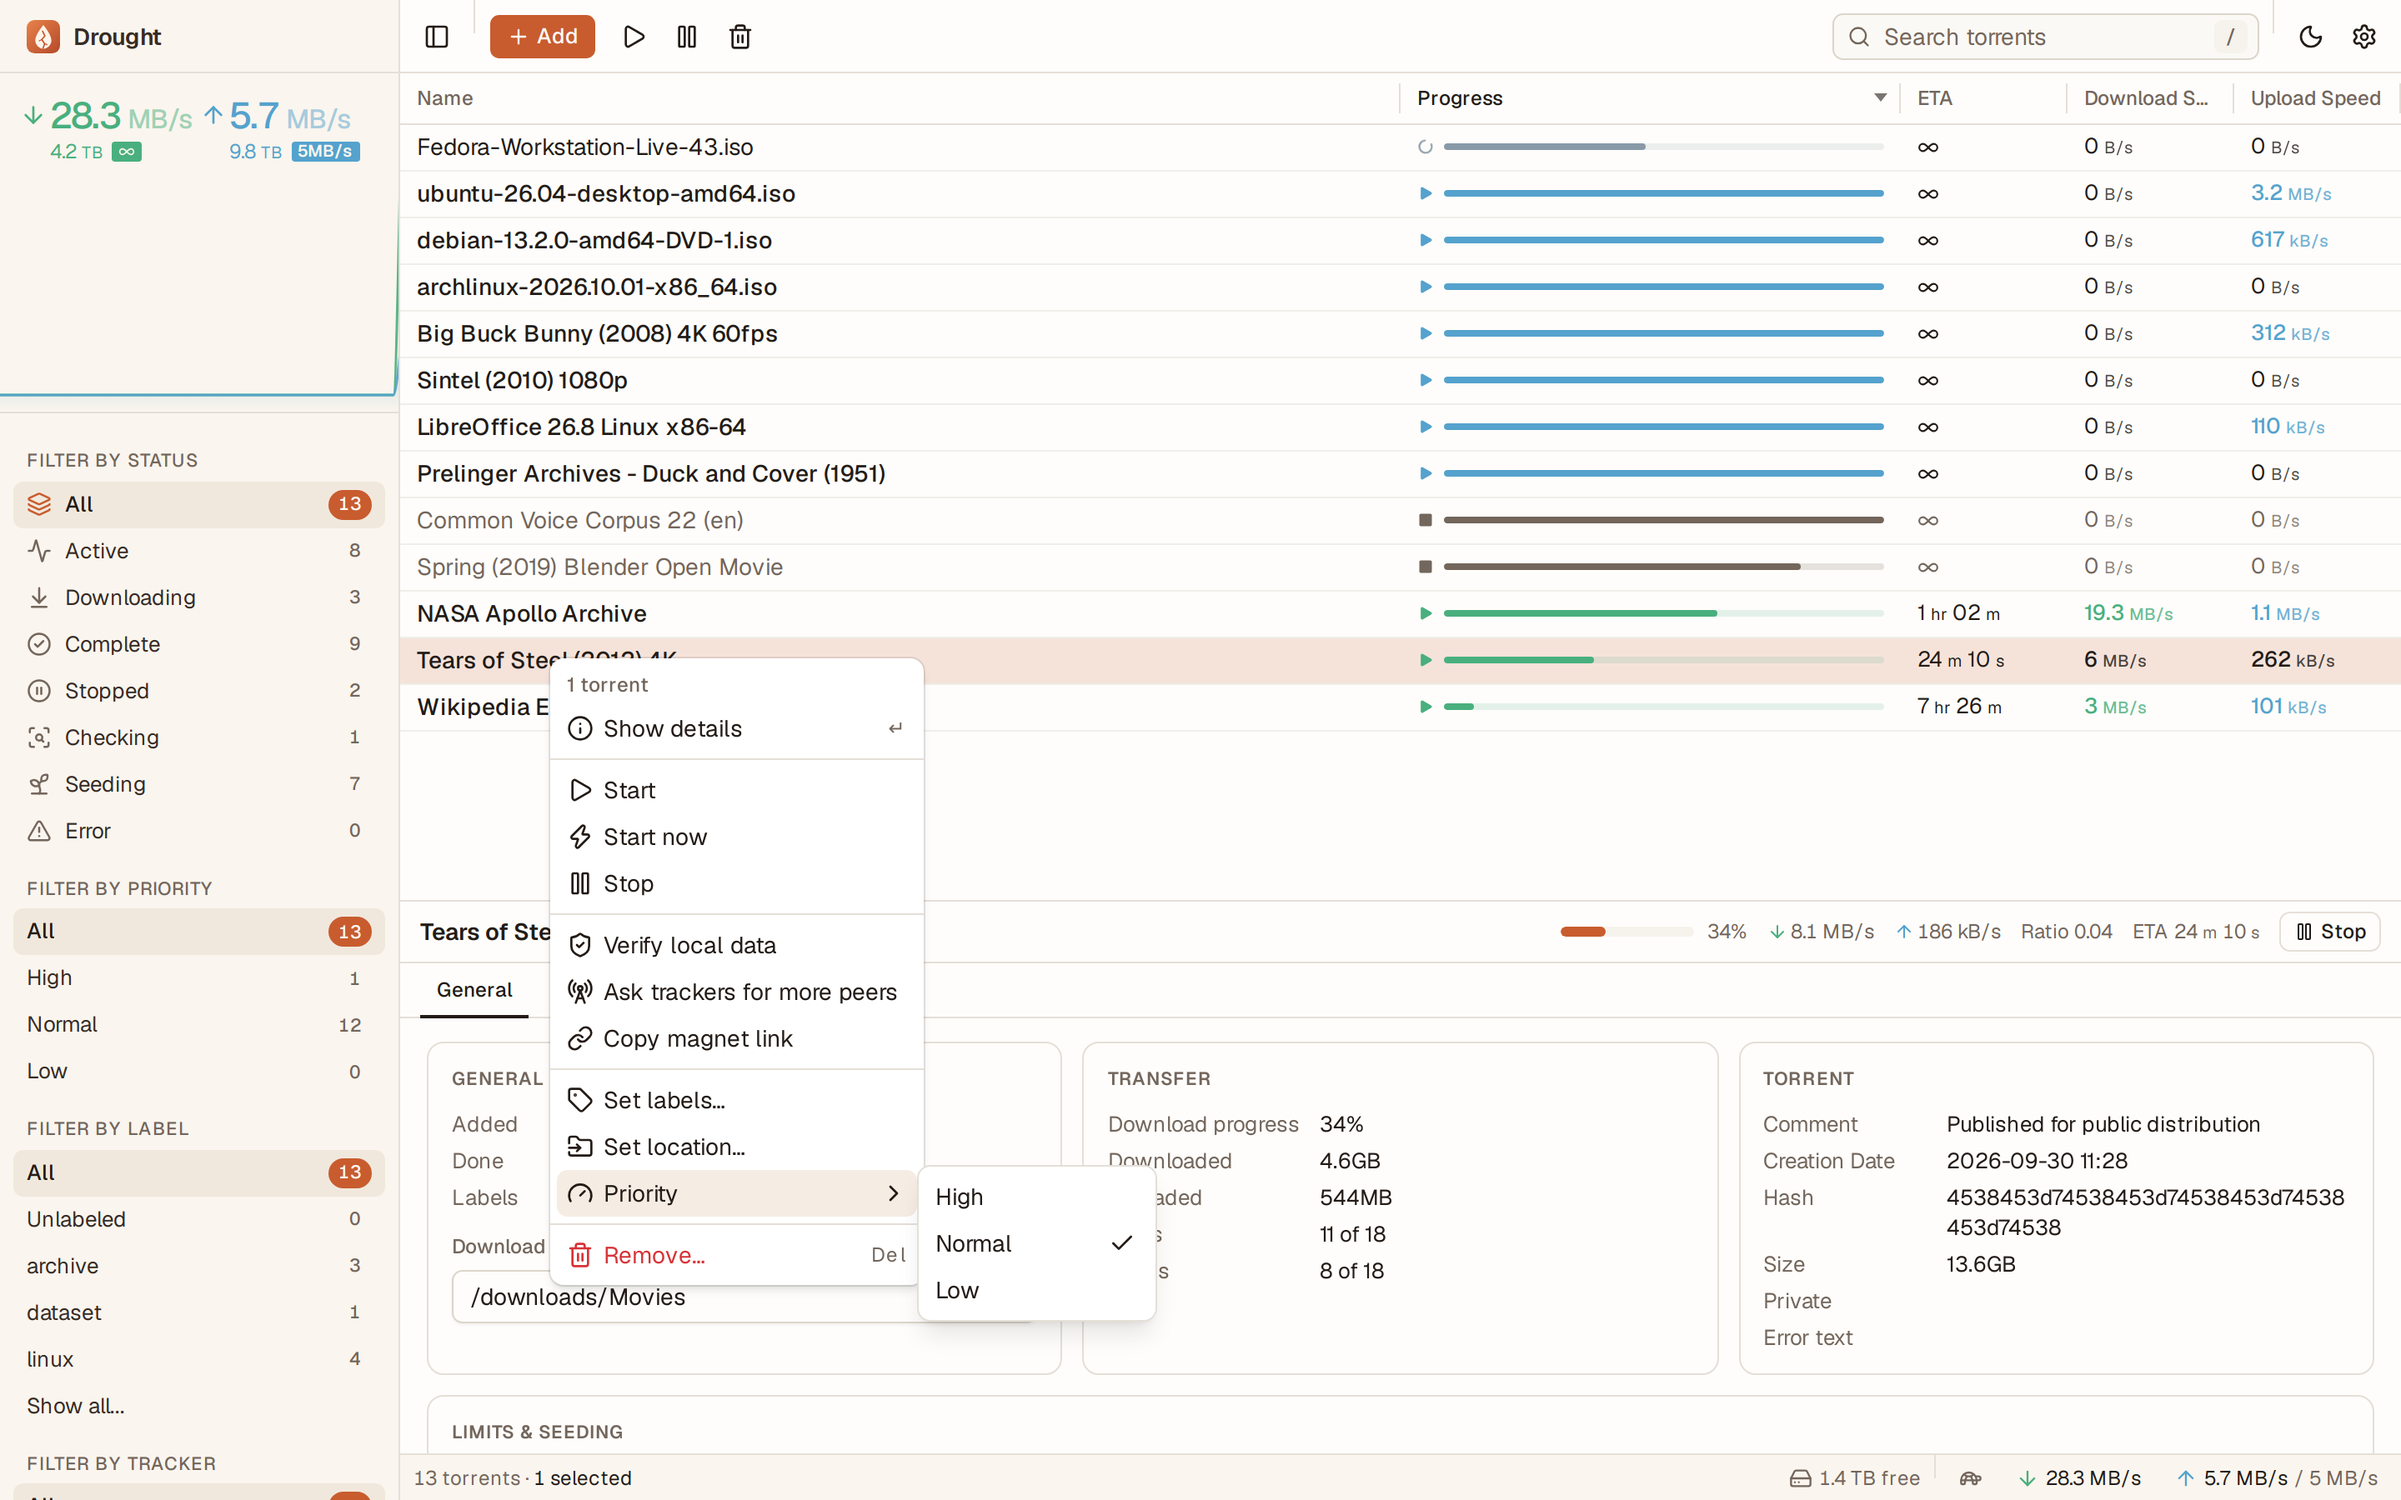
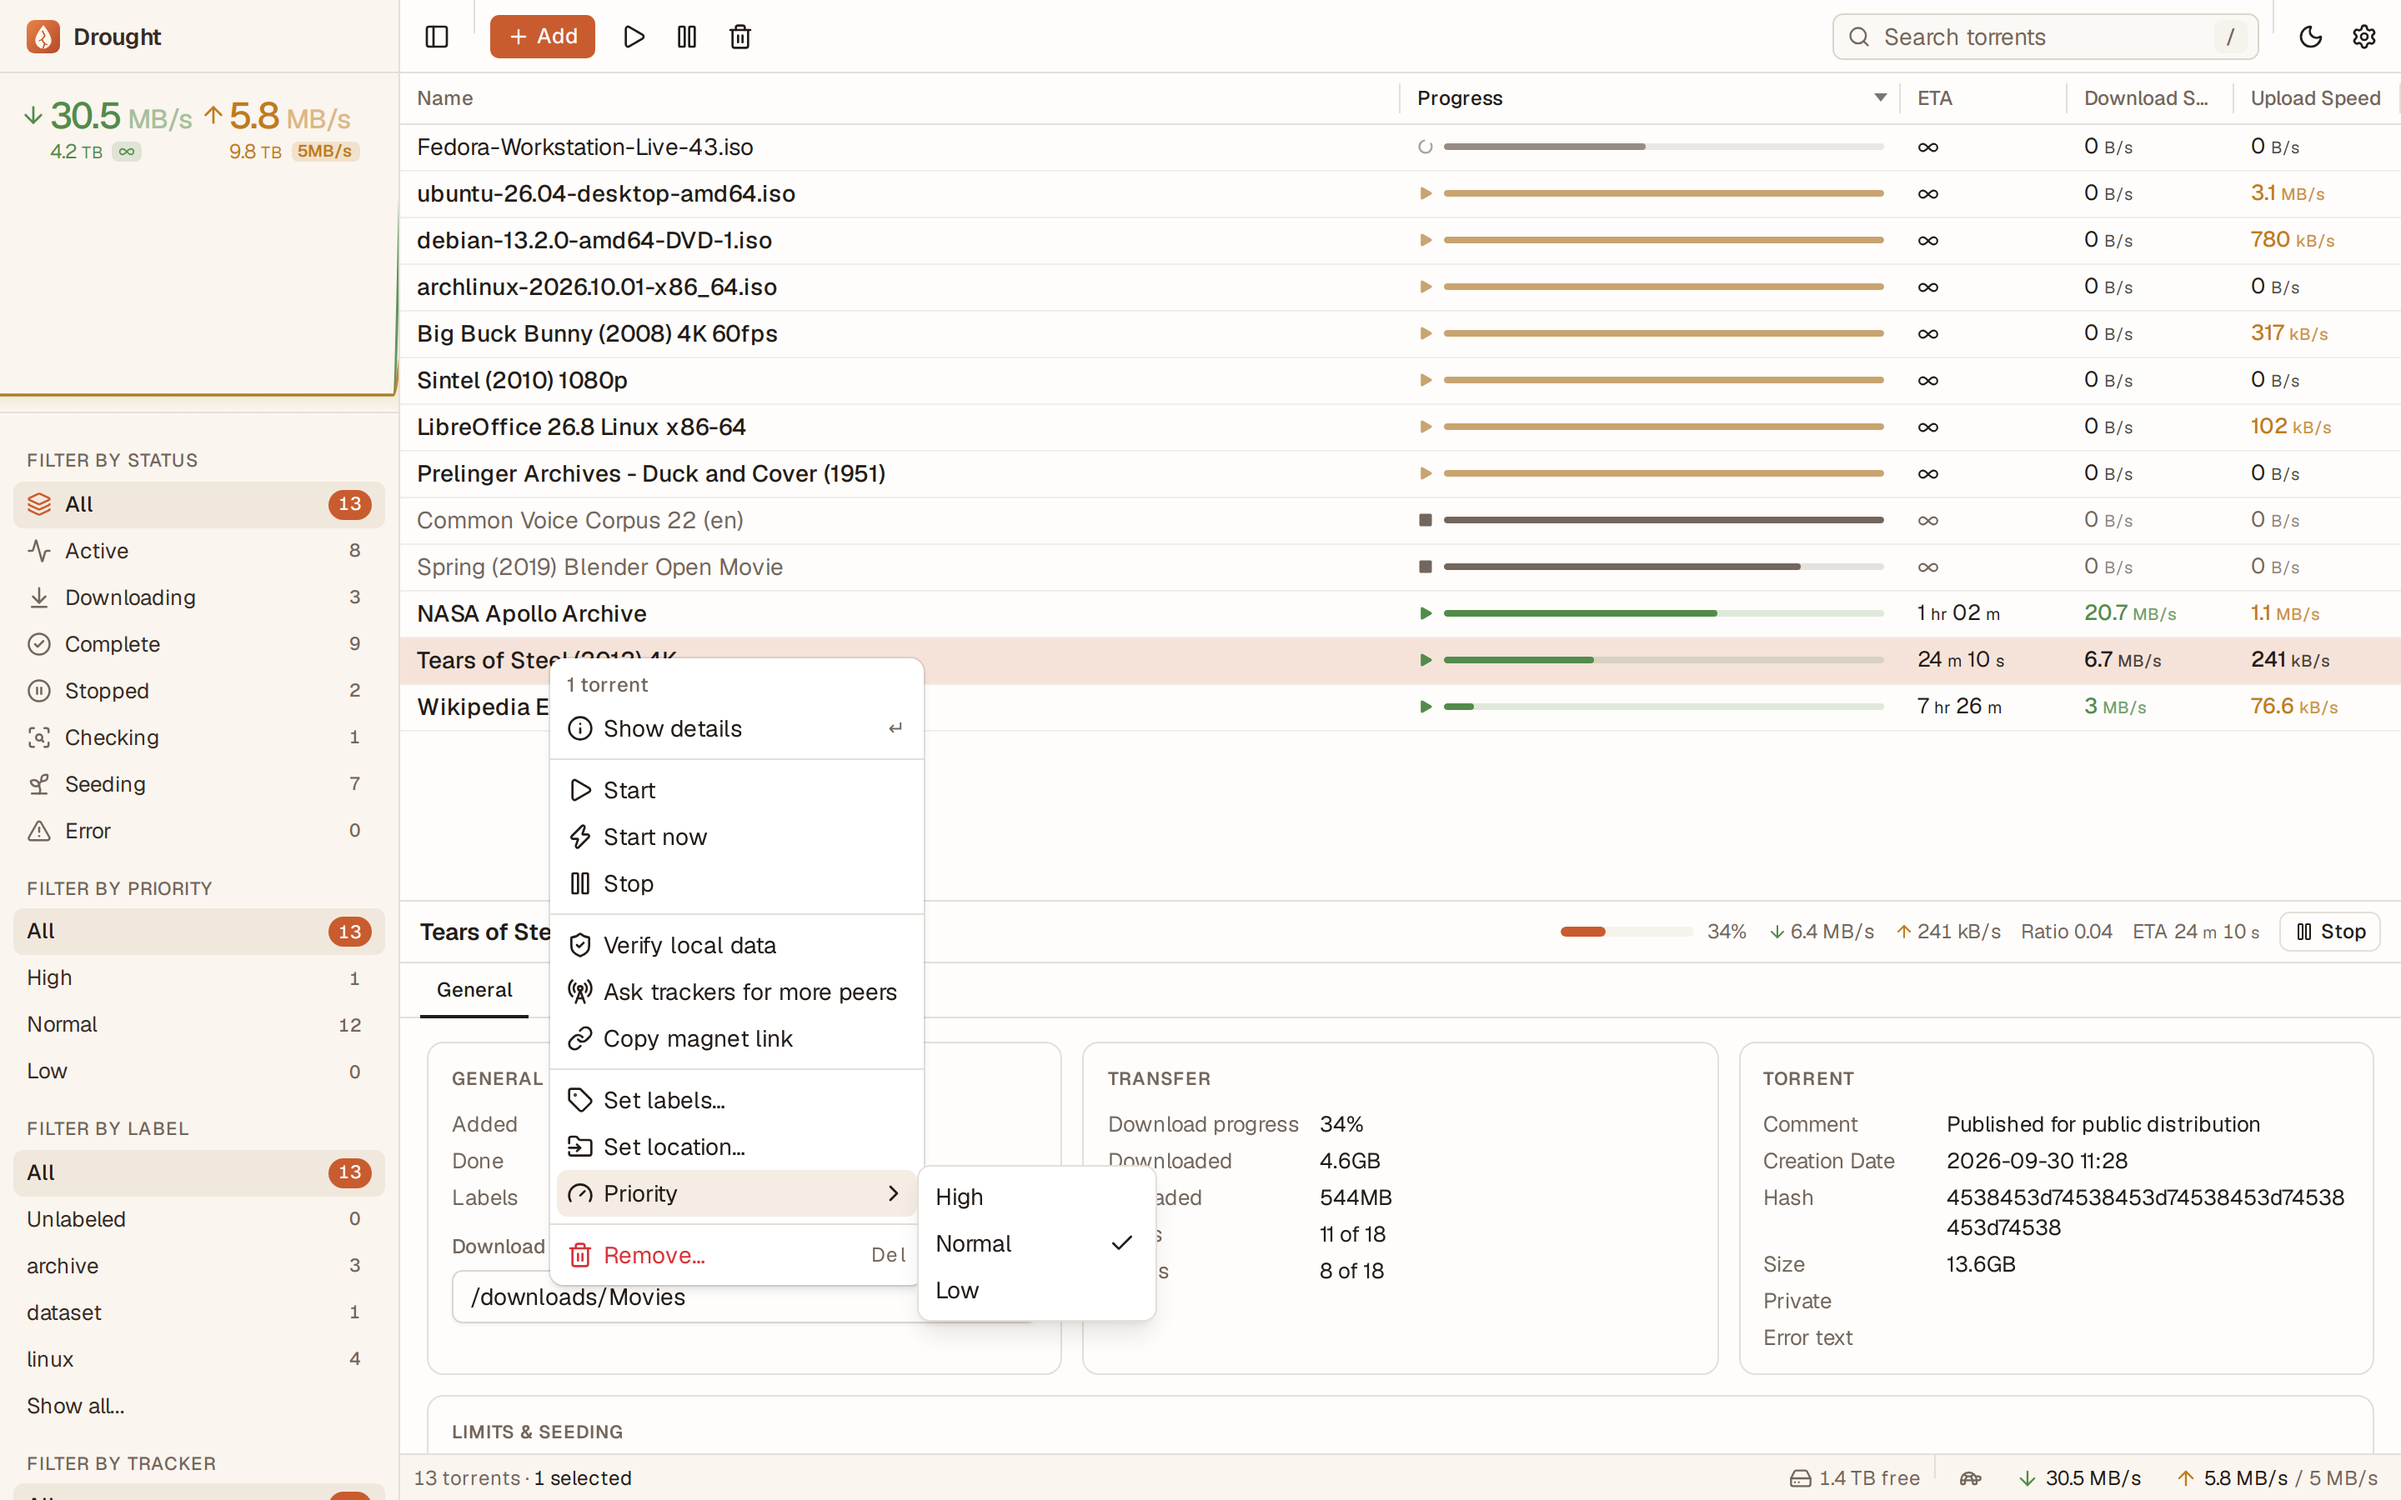
Match transfer colors to the theme and stop the graph shifting on hover
- Download is now sage, upload ochre and finished torrents a soft sand,
  replacing the green/blue pair that clashed with the warm palette. Text
  uses darker shades in light mode for contrast. "Switch speed colors"
  still swaps download and upload.
- Speed-limit chips in the sidebar use tinted backgrounds instead of solid.
- The graph's hover timestamp is overlaid instead of being a layout row
  that grew from empty, which pushed the graph and filters down on hover.
- Measure hover position against the graph itself, not the path under the
  cursor, so the hover dot doesn't jump.
- Refresh README screenshots.

diff --git a/src/styles/legacy-bridge.css b/src/styles/legacy-bridge.css
@@ -9,6 +9,39 @@
   --color-app-background: var(--sidebar);
   --color-app-border: var(--border);
   --color-negative: var(--destructive);
+  --color-positive: var(--positive);
+  --color-download: var(--download);
+  --color-upload: var(--upload);
+
+  --color-progress-bar-download: var(--download);
+  --color-progress-bar-download-background: color-mix(
+    in oklch,
+    var(--download) 18%,
+    transparent
+  );
+  /* Finished torrents, whether seeding or not */
+  --color-progress-bar-upload: var(--completed);
+  --color-progress-bar-upload-background: color-mix(
+    in oklch,
+    var(--completed) 22%,
+    transparent
+  );
+  --color-progress-bar-metadata: color-mix(
+    in oklch,
+    var(--muted-foreground) 70%,
+    transparent
+  );
+  --color-progress-bar-metadata-background: color-mix(
+    in oklch,
+    var(--muted-foreground) 15%,
+    transparent
+  );
+  --color-progress-bar-error: var(--destructive);
+  --color-progress-bar-error-background: color-mix(
+    in oklch,
+    var(--destructive) 18%,
+    transparent
+  );
   --color-active: var(--primary);
   --color-label-background-selected: var(--primary);
   --color-label-text-selected: var(--primary-foreground);

diff --git a/src/components/Graph/Graph.svelte b/src/components/Graph/Graph.svelte
@@ -99,7 +99,7 @@
 
   const handleMouseMove = (event) => {
     hovering = true;
-    const rect = event.target.getBoundingClientRect();
+    const rect = event.currentTarget.getBoundingClientRect();
     mouseX = event.clientX - rect.left;
     ({
       circleTransform: uploadCircleTransform,
@@ -190,10 +190,9 @@
 
 <style>
   .rates {
+    position: relative;
     display: grid;
-    grid-template:
-      'rate-download rate-upload' auto
-      'timestamp timestamp' auto / 1fr 1fr;
+    grid-template: 'rate-download rate-upload' auto / 1fr 1fr;
     font-size: 12px;
     padding: 14px 12px 0;
     line-height: 1;
@@ -259,14 +258,19 @@
     opacity: 0.5;
   }
 
+  /* Overlaid on the top of the graph so showing it never shifts the layout */
   .timestamp {
-    grid-area: timestamp;
+    position: absolute;
+    top: 100%;
+    left: 0;
+    right: 0;
+    margin-top: 6px;
+    z-index: 1;
+    pointer-events: none;
     color: var(--color-graph-text);
     font-style: italic;
     text-align: center;
-    width: 100%;
     transition: opacity 0.25s;
-    margin-top: -8px;
   }
 
   .timestamp.hidden {

diff --git a/src/styles/app.css b/src/styles/app.css
@@ -24,7 +24,11 @@
   --accent: oklch(0.948 0.016 70);
   --accent-foreground: oklch(0.23 0.015 55);
   --destructive: oklch(0.58 0.2 25);
-  --positive: oklch(0.64 0.12 160);
+  --positive: oklch(0.6 0.11 145);
+  /* Transfer colors: sage for download, ochre for upload, soft sand for finished */
+  --download: oklch(0.58 0.11 142);
+  --upload: oklch(0.64 0.13 68);
+  --completed: oklch(0.74 0.08 76);
   --border: oklch(0.905 0.012 75);
   --input: oklch(0.875 0.015 75);
   --ring: oklch(0.6 0.15 42);
@@ -61,7 +65,10 @@
   --accent: oklch(0.27 0.013 60);
   --accent-foreground: oklch(0.96 0.008 75);
   --destructive: oklch(0.66 0.18 25);
-  --positive: oklch(0.72 0.12 160);
+  --positive: oklch(0.72 0.11 145);
+  --download: oklch(0.74 0.11 142);
+  --upload: oklch(0.79 0.12 76);
+  --completed: oklch(0.64 0.07 76);
   --border: oklch(1 0 0 / 8%);
   --input: oklch(1 0 0 / 13%);
   --ring: oklch(0.68 0.145 45);

diff --git a/src/components/Graph/SpeedLimit.svelte b/src/components/Graph/SpeedLimit.svelte
@@ -35,8 +35,7 @@
 <style>
   .limit {
     grid-area: limit;
-    color: var(--color-app-background);
-    border-radius: 2px;
+    border-radius: 4px;
     font-size: 10px;
     font-style: normal;
     font-weight: 600;
@@ -48,11 +47,17 @@
   }
 
   .limit.upload {
-    background-color: var(--color-upload);
+    color: var(--color-upload);
+    background-color: color-mix(in oklch, var(--color-upload) 16%, transparent);
   }
 
   .limit.download {
-    background-color: var(--color-download);
+    color: var(--color-download);
+    background-color: color-mix(
+      in oklch,
+      var(--color-download) 16%,
+      transparent
+    );
   }
 
   .limit > :global(.icon) {

diff --git a/src/styles/colors.css b/src/styles/colors.css
@@ -196,11 +196,13 @@
 }
 
 .switch-speed-colors {
-  --color-download: rgb(var(--rgb-upload));
-  --color-upload: rgb(var(--rgb-download));
+  --color-download: var(--upload);
+  --color-upload: var(--download);
 
-  --color-progress-bar-download: rgb(var(--rgb-upload));
-  --color-progress-bar-download-background: rgba(var(--rgb-upload), 0.15);
-  --color-progress-bar-upload: rgb(var(--rgb-download));
-  --color-progress-bar-upload-background: rgba(var(--rgb-download), 0.15);
+  --color-progress-bar-download: var(--upload);
+  --color-progress-bar-download-background: color-mix(
+    in oklch,
+    var(--upload) 18%,
+    transparent
+  );
 }
